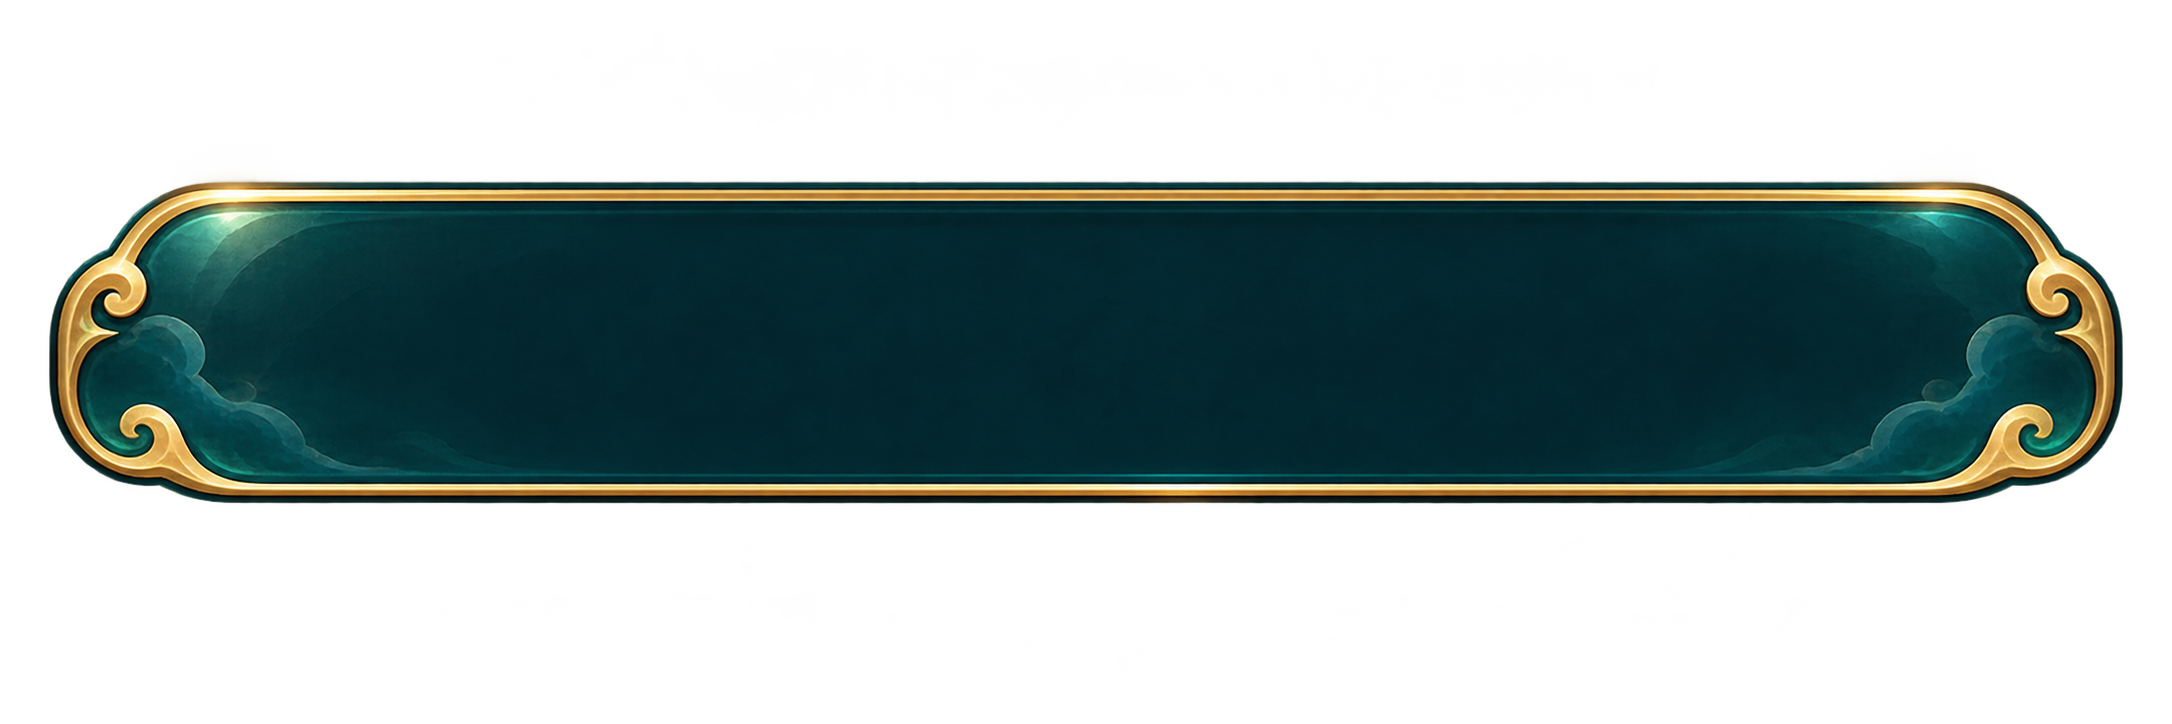
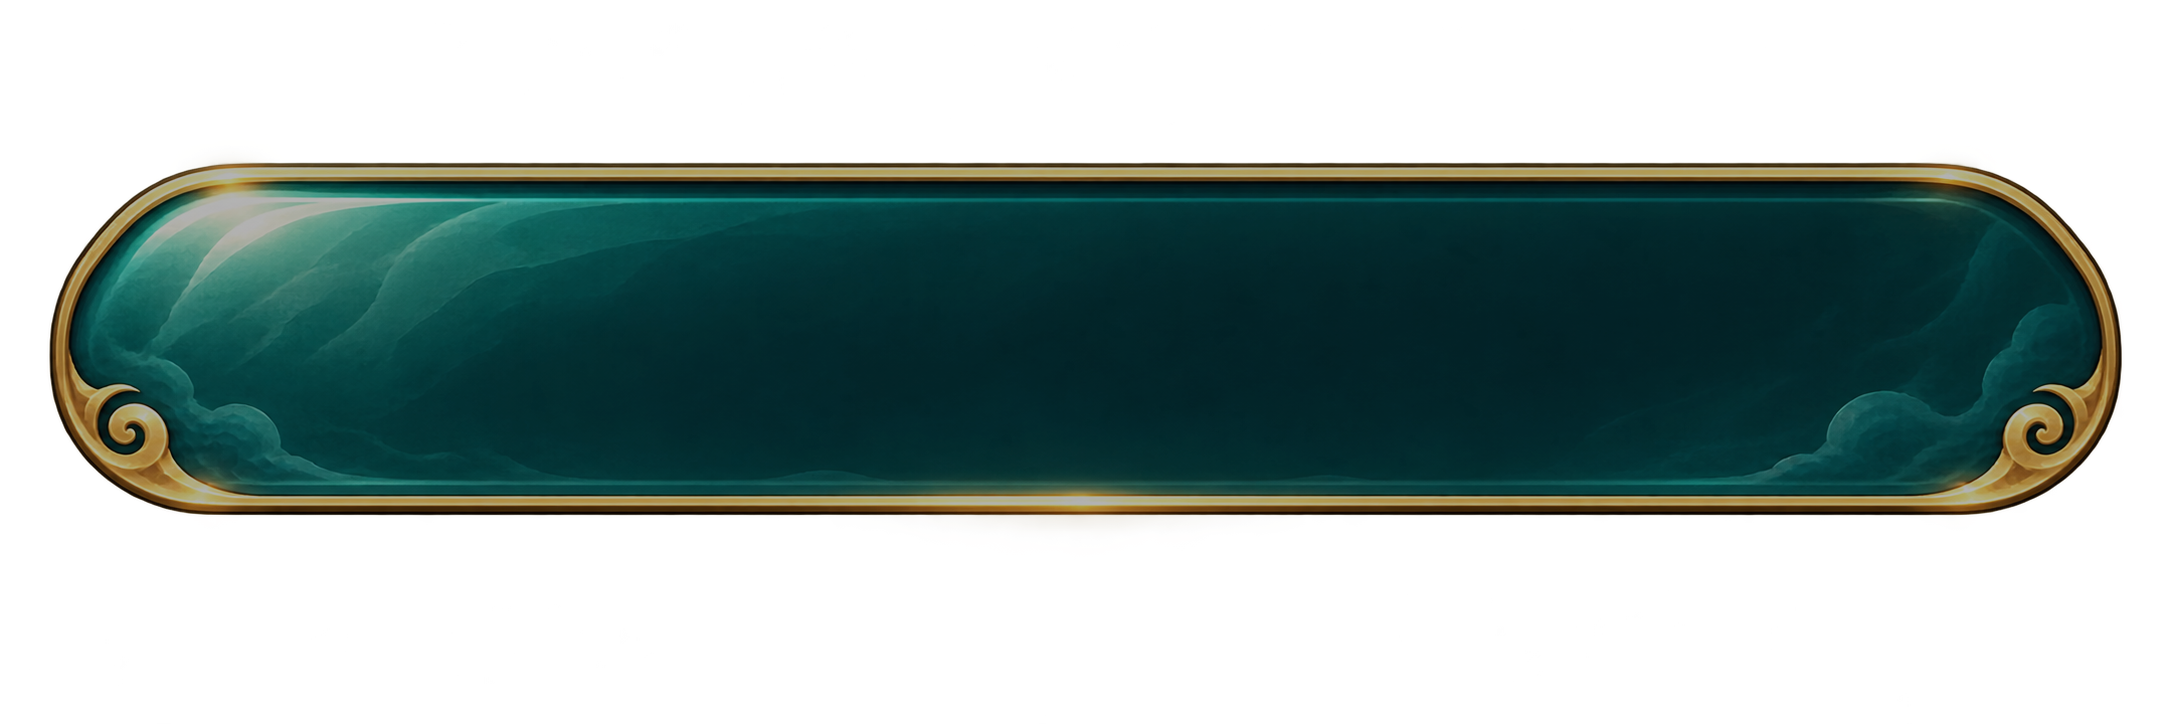
fix: match inventory tab artwork and remove sword frames

Changed region(s): [[0.0, 0.2127, 0.9871, 0.7293]]

diff --git a/client/src/components/InventoryCollection.tsx b/client/src/components/InventoryCollection.tsx
@@ -18,7 +18,7 @@ const SAVE_ERROR = 'Không thể lưu thay đổi. Vui lòng thử lại.';
 function EquipmentArt({ art, skill = false, empty = false }: { art?: Artwork; skill?: boolean; empty?: boolean }) {
   return (
     <View style={styles.socket}>
-      <Image source={ART[skill ? empty ? 'slotSkillEmpty' : 'slotSkill' : 'slotSword']} contentFit="contain" accessible={false} style={StyleSheet.absoluteFill} />
+      {skill ? <Image source={ART[empty ? 'slotSkillEmpty' : 'slotSkill']} contentFit="contain" accessible={false} style={StyleSheet.absoluteFill} /> : null}
       {art ? <Image source={ART[art]} contentFit="contain" accessible={false} style={styles.itemIcon} /> : null}
     </View>
   );

diff --git a/assets/ui-source/README.md b/assets/ui-source/README.md
@@ -94,18 +94,26 @@ vùng thấy rõ; alpha còn lại giữ nguyên để tránh lệch tâm do đi
 
 ## Túi Đồ
 
-Sáu sprite mới được tạo riêng bằng công cụ ImageGen tích hợp, dùng
+Bộ sáu sprite ban đầu được tạo riêng bằng công cụ ImageGen tích hợp, dùng
 `hud-tray-v2.png` và `slot-sword.png` làm tham chiếu chất liệu: nền card,
 tab thường/chọn, nút trang bị thường/vô hiệu hóa và panel chọn ô. Tông ngọc
 xanh và vàng ấm, viền thanh với đầu hoa văn mây gọn; không có chữ trong ảnh.
 Các nút ngọc tối dùng nhãn ngà để giữ độ tương phản ở kích thước nhỏ.
 
-PNG gốc cùng prompt chính xác của từng lần tạo nằm trong
-`runtime/inventory-*.png` và `runtime/inventory-*.prompt.txt`. Bản dùng trong
+PNG gốc cùng prompt của các sprite ImageGen nằm trong
+`runtime/inventory-*.png` và `runtime/inventory-*.prompt.txt`. Tab idle hiện
+được tạo trực tiếp từ `inventory-tab-active.png`: giảm sáng RGB 30%, giữ
+nguyên alpha, canvas, hoa văn và vị trí mọi chi tiết. Công thức chính xác
+ghi trong `runtime/inventory-tab-idle.recipe.txt`; ảnh active giữ nguyên.
+Hai tab dùng cùng crop/resize nên khớp hình dáng ở cả hai trạng thái.
+Bản dùng trong
 game là `client/app-assets/ui/inventory_*.webp`, quality 90, giữ alpha; tổng
-dung lượng sáu WebP khoảng 125 KiB. `generate_ui_assets.py` chỉ trim alpha,
+dung lượng sáu WebP khoảng 127 KiB. `generate_ui_assets.py` chỉ trim alpha,
 resize và chuyển định dạng, không vẽ lại nội dung asset. Kích thước tối đa:
 card 1200 px, tab 640 px, nút 352 px, panel 800 px.
 
 `runtime-preview-inventory.png` là contact sheet của sáu sprite. Các ảnh
-native và quy trình kiểm chứng nằm trong `assets/ui-review/inventory-v1/`.
+native của bản đầu nằm trong `assets/ui-review/inventory-v1/`; bản đồng bộ
+hai tab và bỏ khung vuông quanh kiếm được review trong
+`assets/ui-review/inventory-v2/`. Icon kiếm nằm trực tiếp trên card, giữ
+vùng bố trí 56×56 và ảnh 48×48; khung tròn của kiếm thuật giữ nguyên.

diff --git a/assets/ui-review/inventory-v2/README.md b/assets/ui-review/inventory-v2/README.md
@@ -1,0 +1,28 @@
+# Inventory tab and sword icon refinement
+
+The inactive tab is derived directly from the unchanged active PNG by scaling
+each RGB channel with floor(channel * 7 / 10). Canvas size, all detail positions,
+and every alpha pixel are preserved. The source recipe is recorded in
+`assets/ui-source/runtime/inventory-tab-idle.recipe.txt`.
+
+Source PNGs share dimensions 2172x724 and identical alpha. Runtime WebPs use
+the same crop/resize pipeline, share dimensions 640x118 and identical alpha.
+The active source PNG and runtime WebP SHA-256 hashes remained unchanged.
+The inventory sword card omits only the square socket layer; its 56x56-point
+container and 48x48-point icon retain their existing layout. Skill sockets,
+character equipment, the slot chooser and equip behavior remain unchanged.
+
+Native captures use the installed Expo development app on the 3x iPhone 16e
+simulator, with temporary viewport constraints at 320x568, 360x640 and 390x844.
+Each viewport was captured with both selected categories to inspect matching
+tab ornamentation and frameless sword icons. Captures are cropped without
+resizing or repainting. `inventory-live-native.png` uses the real player state
+and normal production layout. Floating white gears belong to the Expo client.
+
+Temporary read-only React context fixtures supplied inventory and HUD data.
+Their equip and purchase handlers could not change the real store or save.
+All fixture routes, context imports and viewport constraints were removed.
+
+Validation: exact PNG color transformation, matching source/runtime alpha and
+dimensions, unchanged active asset hashes, native review at all three widths,
+TypeScript, and all 12 client test suites (147 tests).
